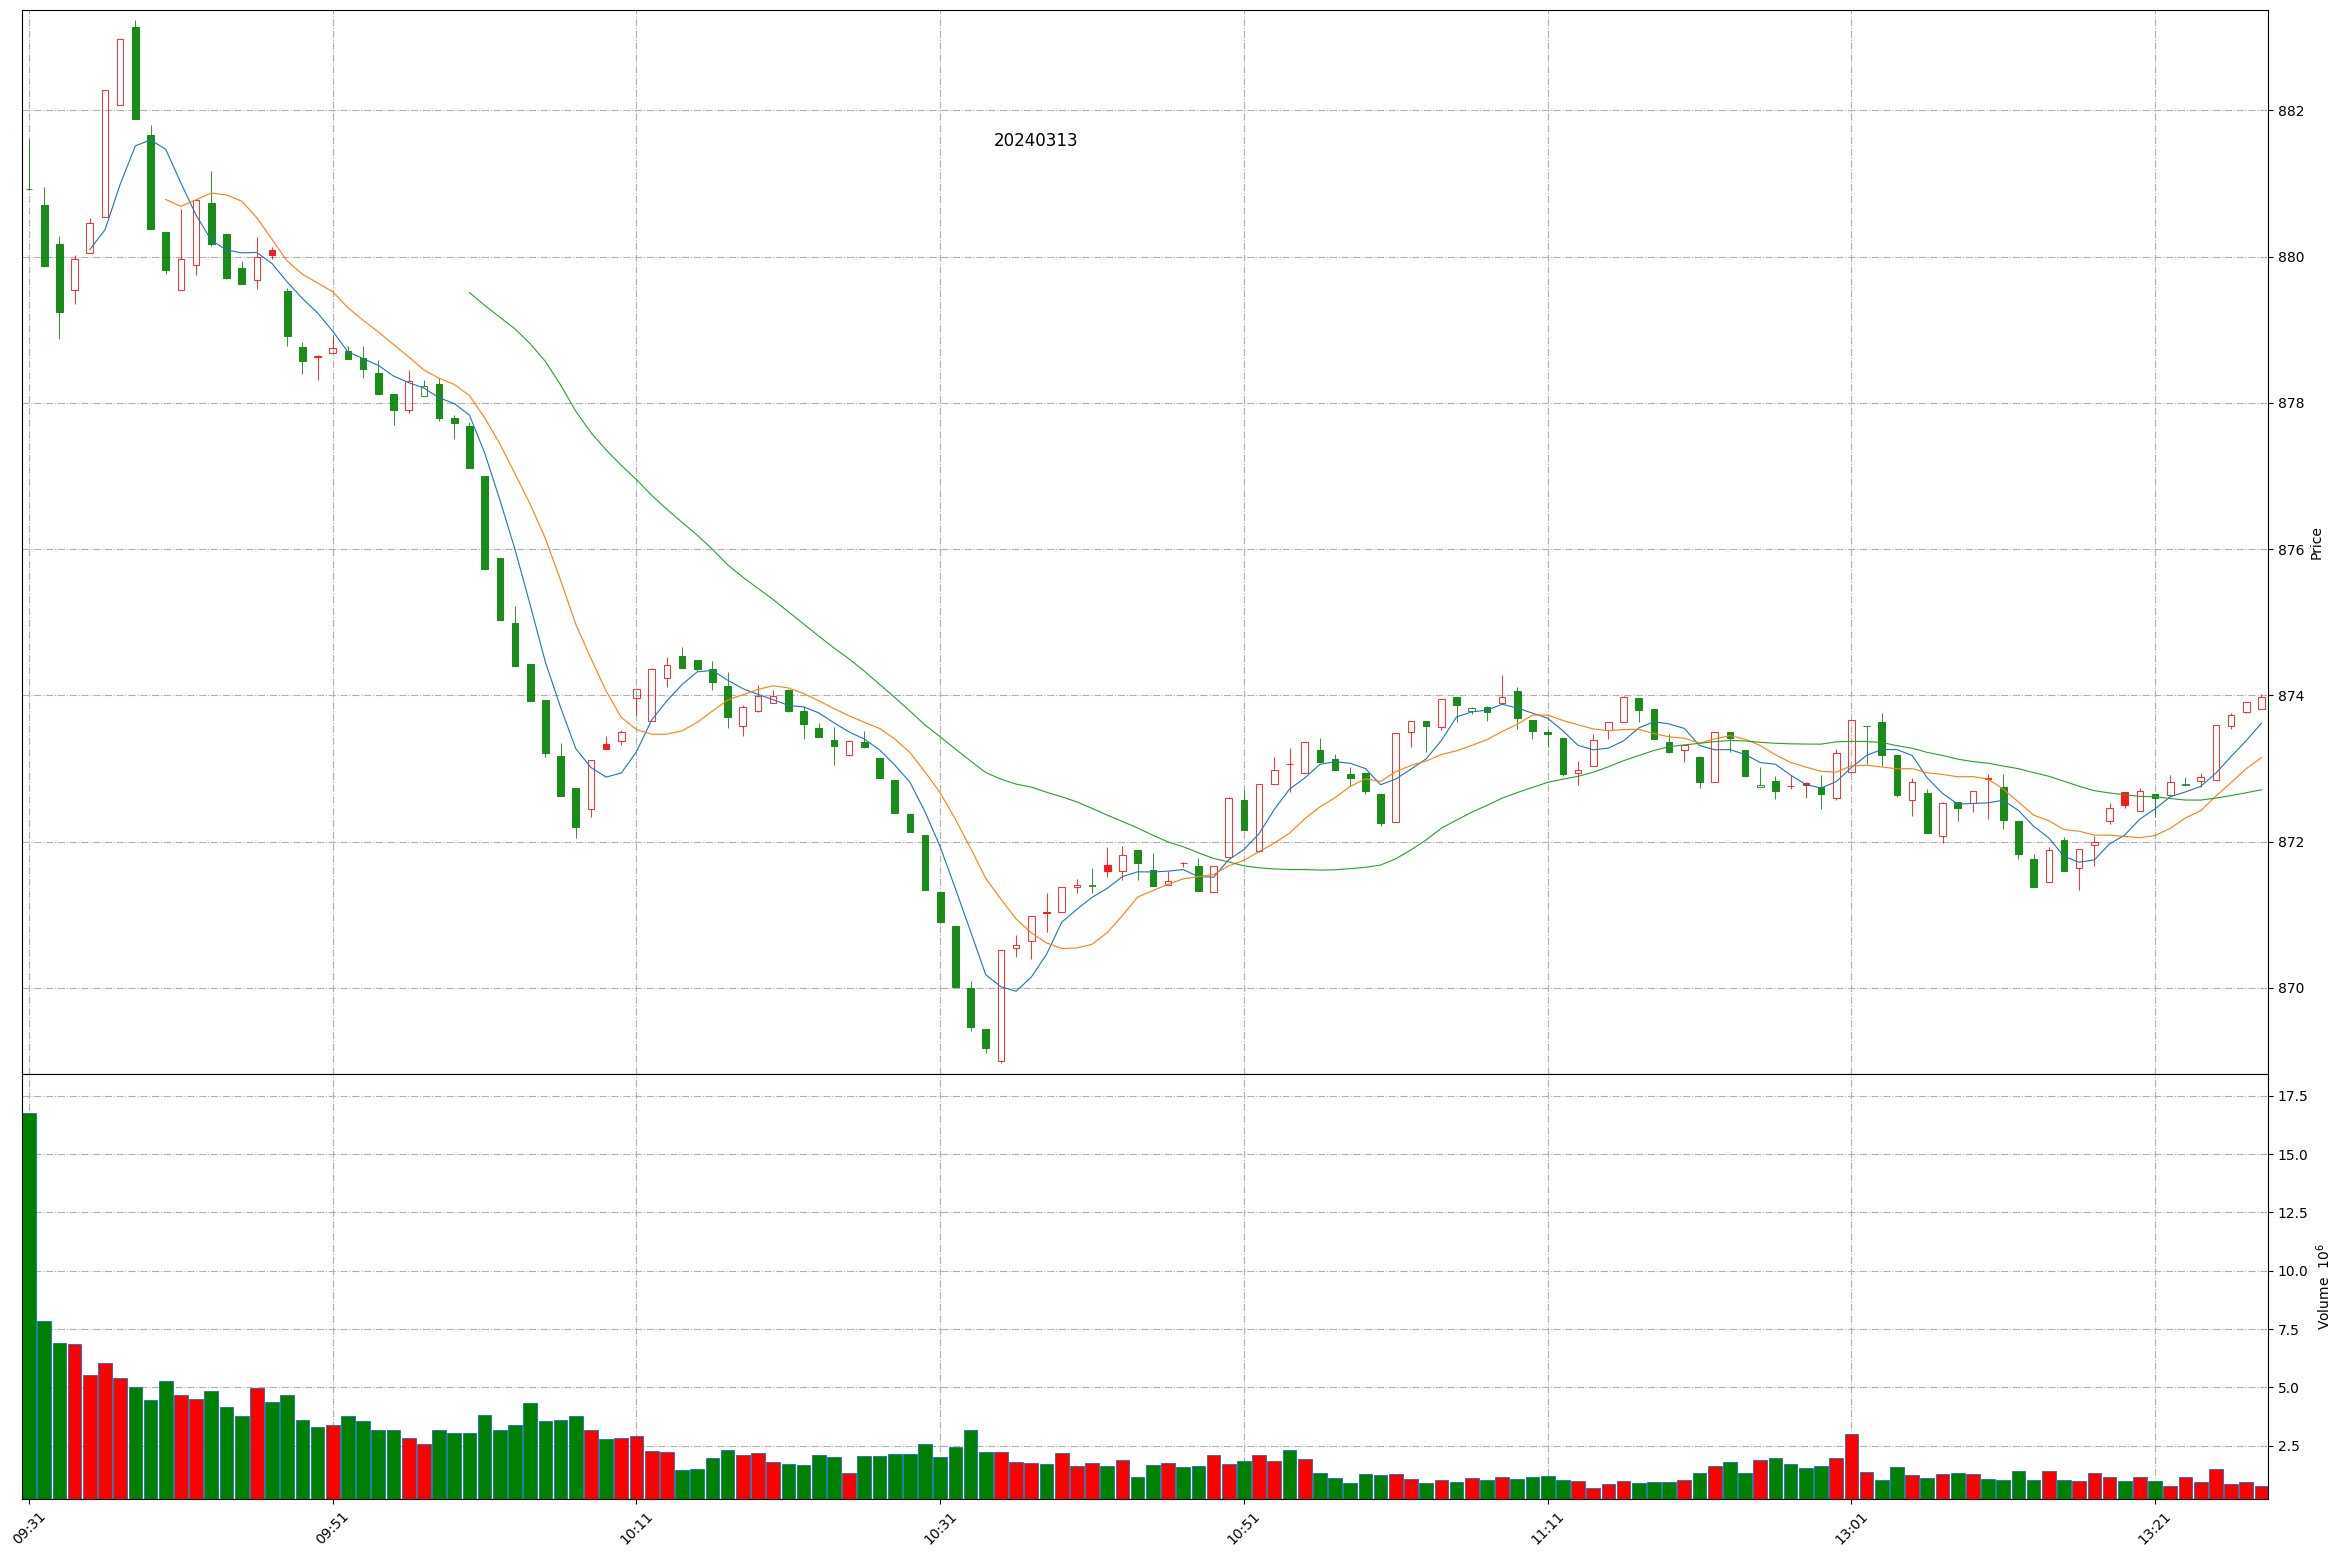
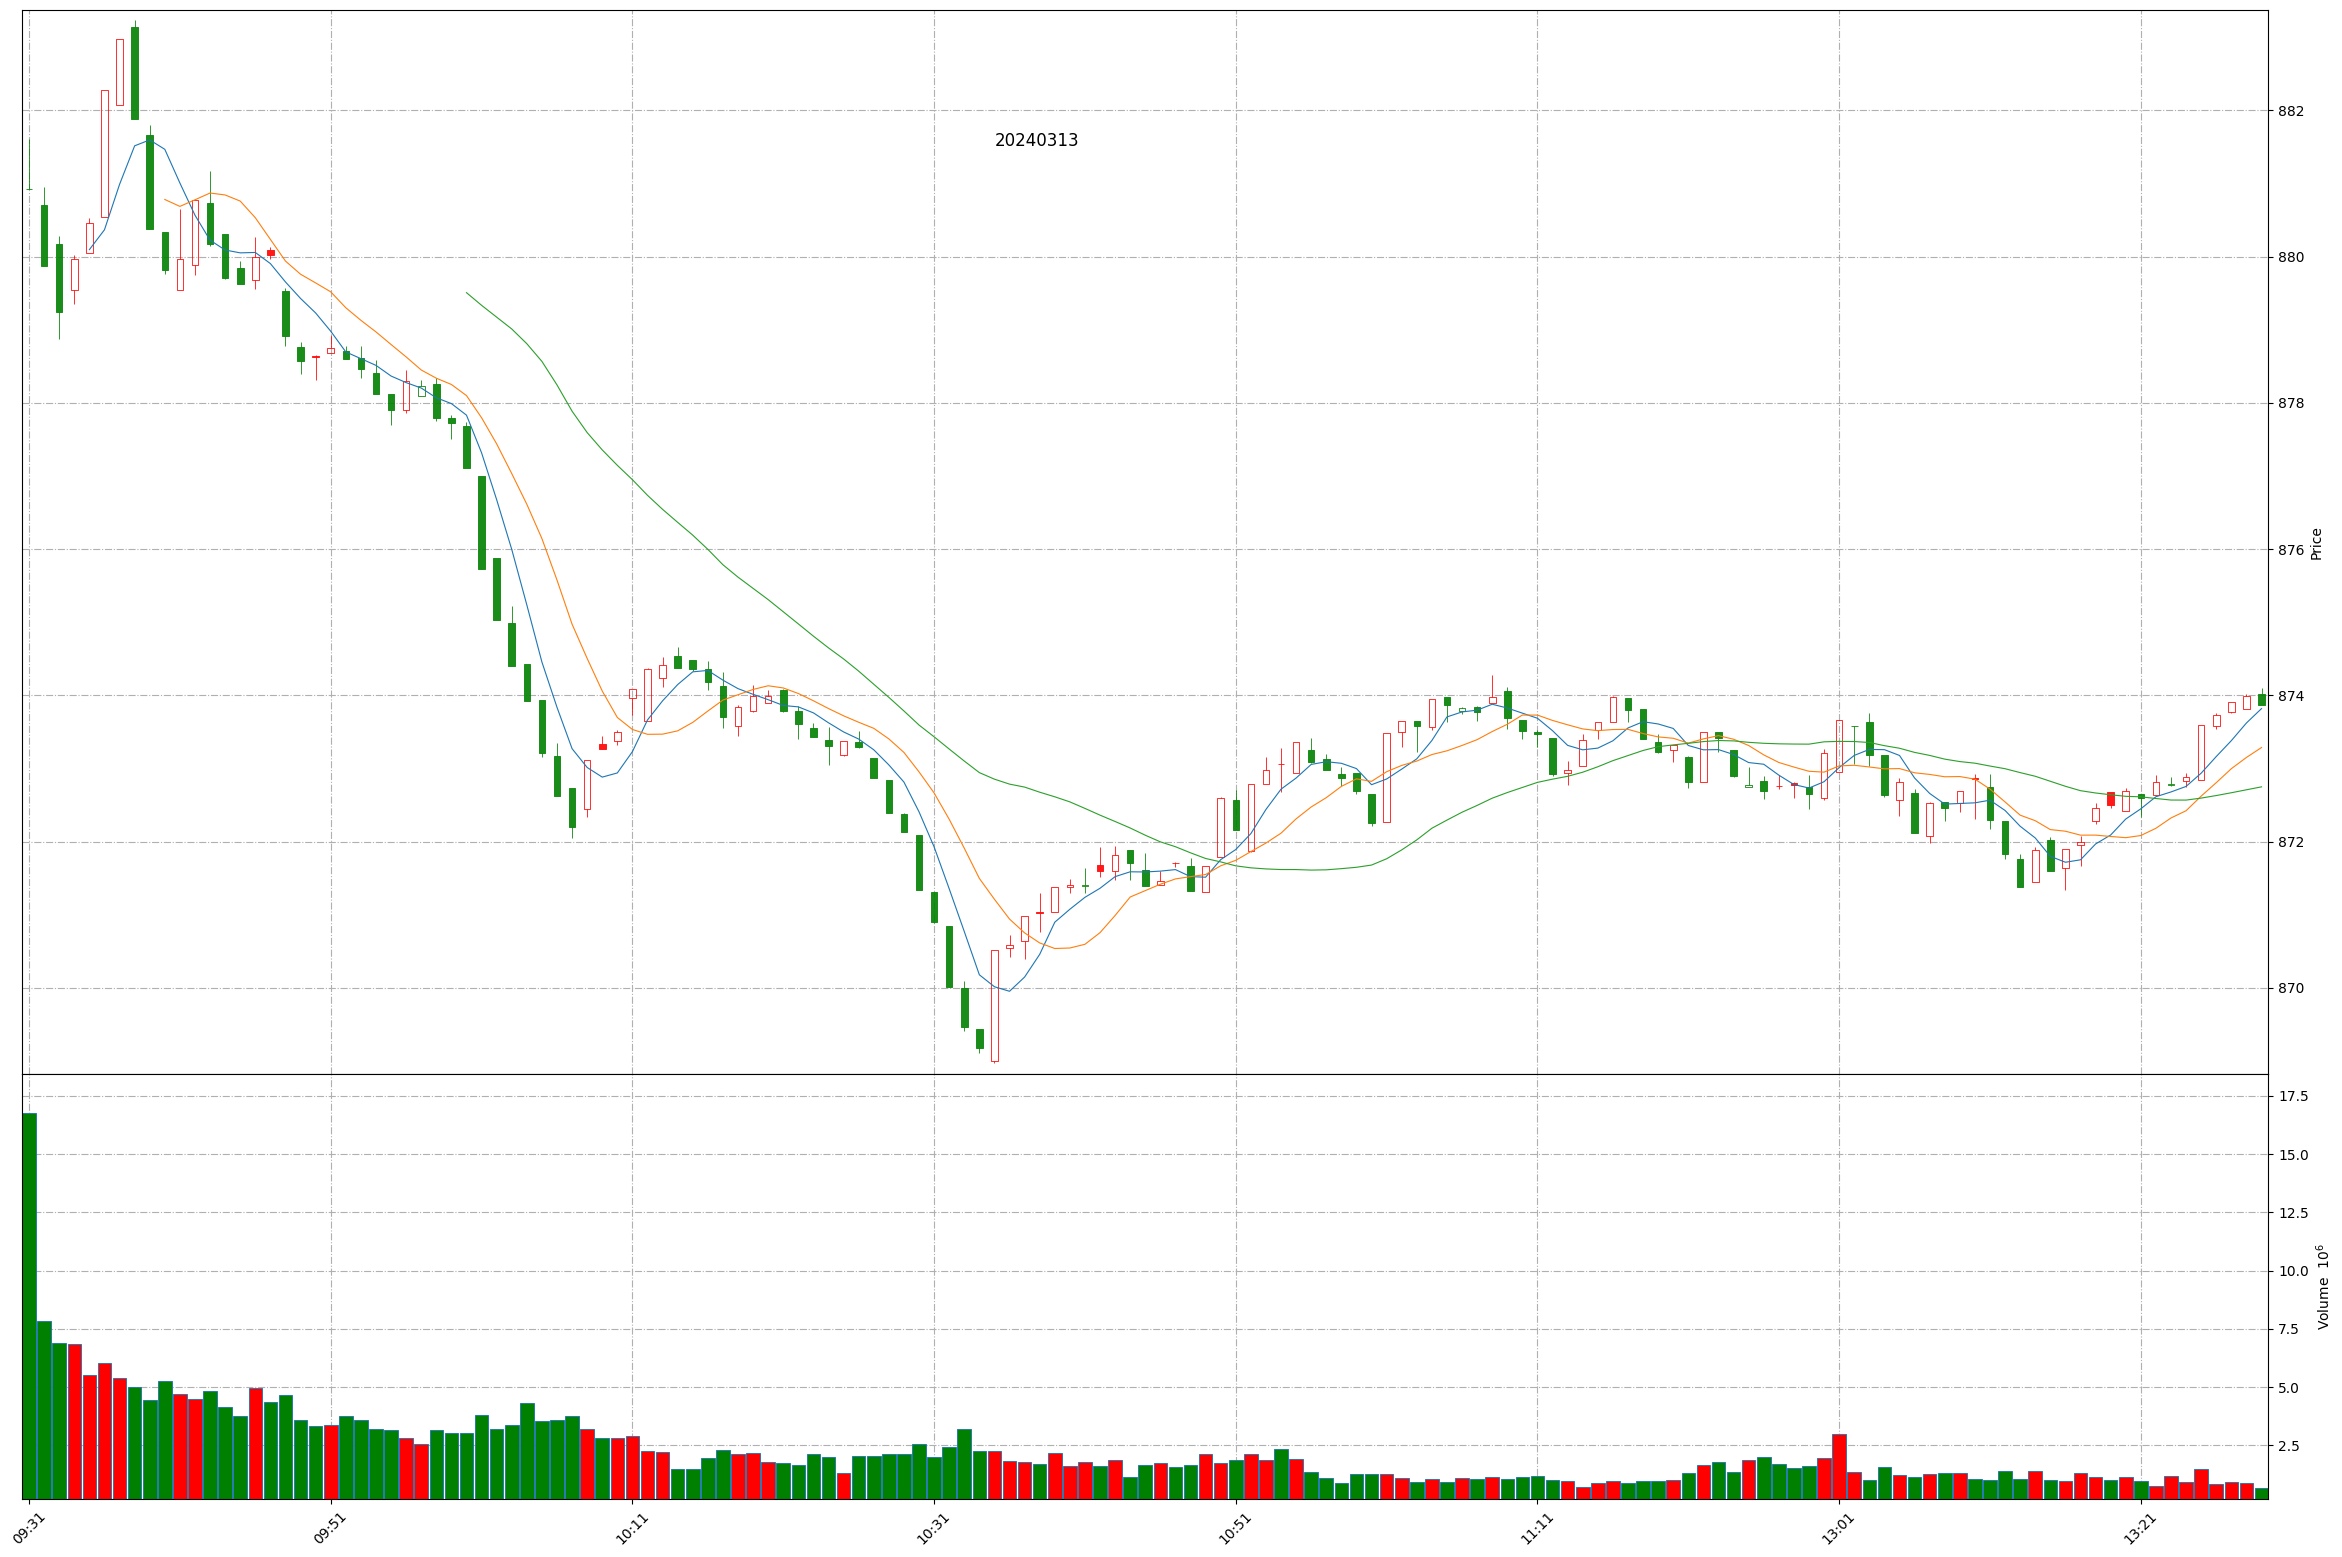
Github action update at 2024-03-13 13:28:50.

diff --git a/README.md b/README.md
@@ -1,11 +1,11 @@
 
 # Daily-A-share-market-quotes 每日 A 股指数（5min 更新）- 20240313
 
-### 上证指数 20240313 13:27
+### 上证指数 20240313 13:28
 ![](./fig/2024/3/20240313-sh000001.png)
 
-### 深证成指 20240313 13:27
+### 深证成指 20240313 13:28
 ![](./fig/2024/3/20240313-sz399001.png)
 
-### 北证50 20240313 13:27
+### 北证50 20240313 13:28
 ![](./fig/2024/3/20240313-bj899050.png)
